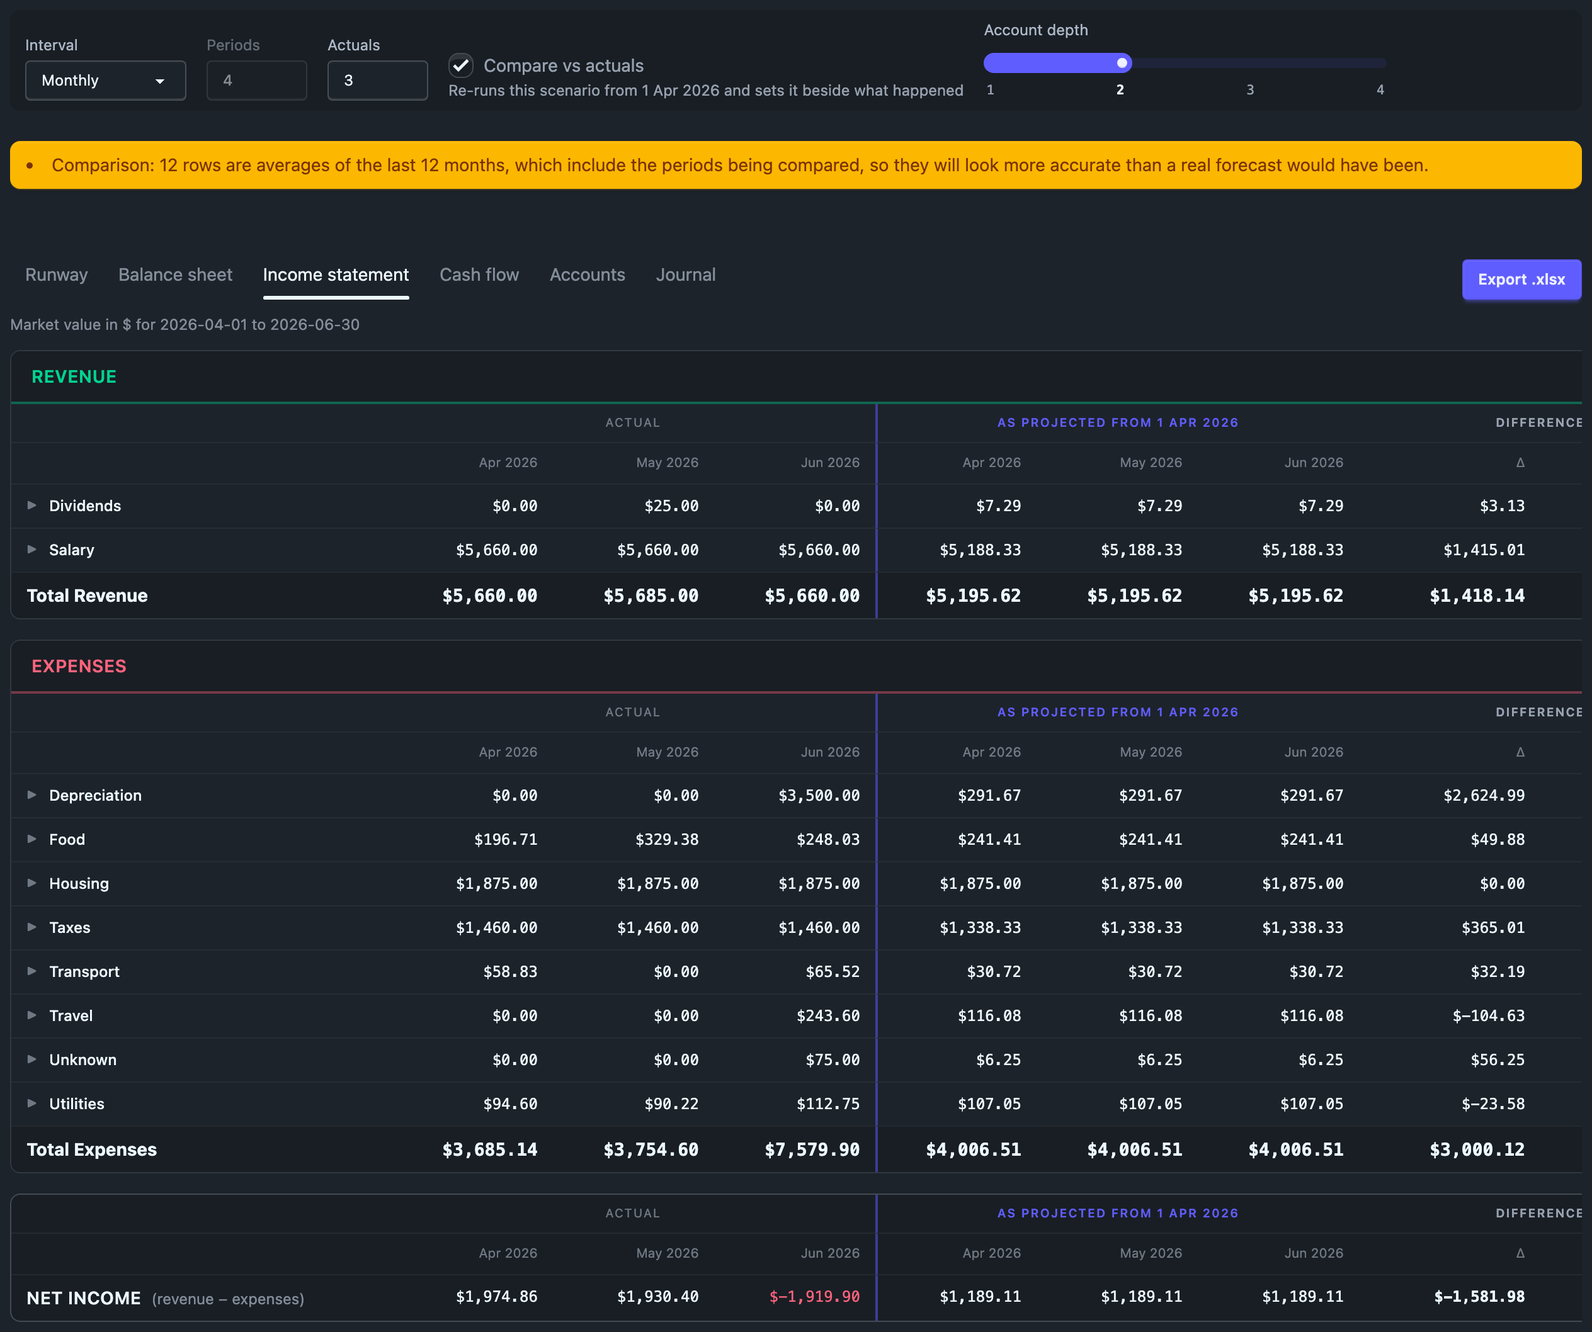
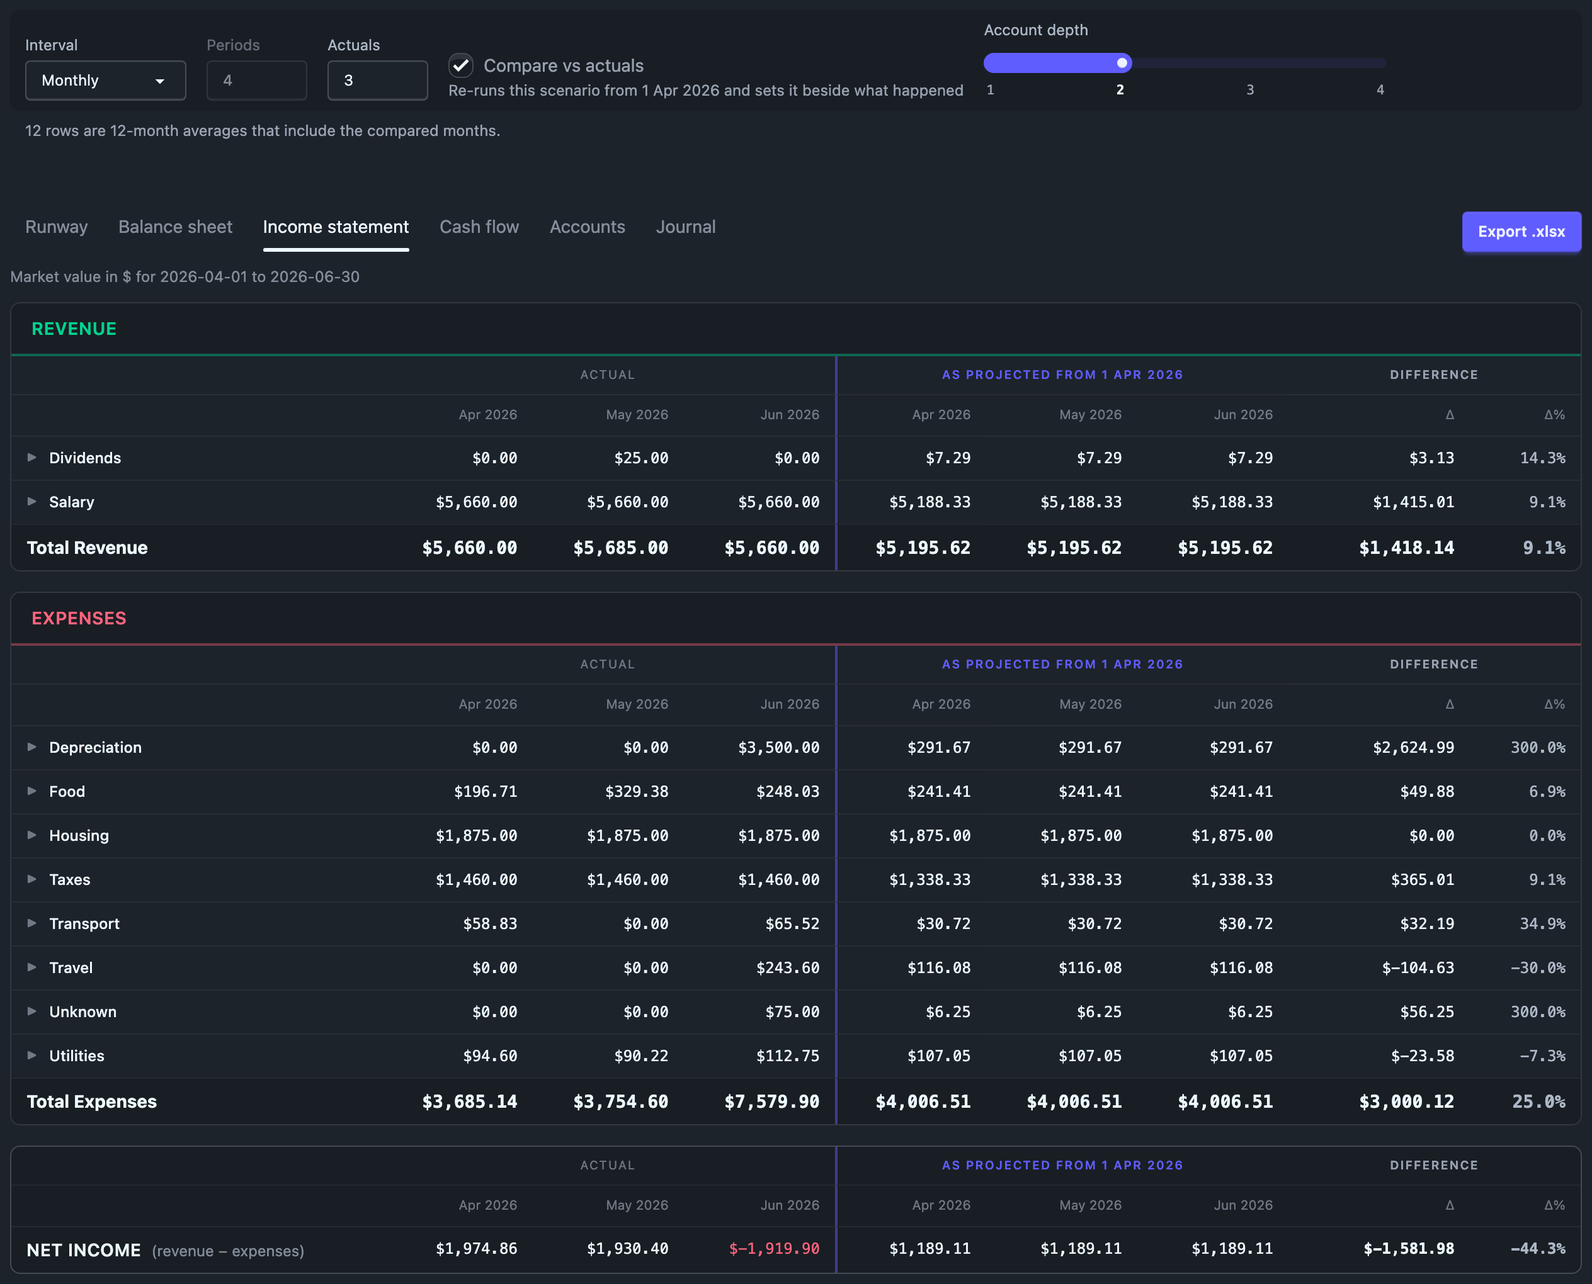
feat(projections): fit comparisons on the page, flag wide ones, soften the seed note
- Compare mode uses a tighter column template (label 15rem, periods
  7.5rem, Δ 9rem, Δ% 5.5rem), so three actual periods (74.5rem) fit the
  1280px page instead of pushing Δ% out of view.
- New HScroll wraps every statement's sideways scroller: while there is
  more to one side it fades that edge and shows a chevron that scrolls
  it. macOS hides scrollbars, so a wide statement looked cut off.
- The seeded-averages line leaves the warnings alert and becomes a grey
  note ("12 rows are 12-month averages that include the compared
  months."): a fact about how the rows were made, not a problem.

diff --git a/web/src/lib/components/HScroll.svelte b/web/src/lib/components/HScroll.svelte
@@ -1,0 +1,95 @@
+<!-- A sideways scroller that SAYS it scrolls.
+
+     macOS hides scrollbars until a scroll starts, so a statement wider than
+     the page looked cut off: the last columns (a comparison's Δ and Δ%) were
+     simply not there, with nothing to say they were one swipe away. While
+     there is more to either side this draws a fade over that edge and a
+     chevron button that scrolls a page-width that way; both go when the edge
+     is reached. Nothing is drawn when the content fits.
+
+     `enabled: false` renders the children inside `display: contents`
+     wrappers, so a caller whose single-column mode needs its children to stay
+     direct flex children (Total mode) gets exactly that. -->
+<script lang="ts">
+    import type {Snippet} from "svelte";
+
+    let {
+        enabled = true,
+        class: className = "",
+        testid,
+        children,
+    }: {
+        enabled?: boolean;
+        /** Classes for the scrolling element itself (e.g. `@container`). */
+        class?: string;
+        /** The scrolling element's `data-testid`. */
+        testid?: string;
+        children: Snippet;
+    } = $props();
+
+    let scroller: HTMLDivElement | undefined = $state();
+    let moreLeft = $state(false);
+    let moreRight = $state(false);
+
+    /** Within a pixel counts as the edge: zoom leaves fractional scroll offsets. */
+    const SLACK = 1;
+
+    function measure(): void {
+        if (scroller === undefined) return;
+        const {scrollLeft, scrollWidth, clientWidth} = scroller;
+        moreLeft = scrollLeft > SLACK;
+        moreRight = scrollLeft + clientWidth < scrollWidth - SLACK;
+    }
+
+    $effect(() => {
+        if (!enabled || scroller === undefined) return;
+        const el = scroller;
+        measure();
+        // jsdom (component tests) has no ResizeObserver; the first measure stands.
+        if (typeof ResizeObserver === "undefined") return;
+        // The content's width changes with the data (a re-run, a new column
+        // count) as well as with the window, so both are watched.
+        const observer = new ResizeObserver(measure);
+        observer.observe(el);
+        if (el.firstElementChild !== null) observer.observe(el.firstElementChild);
+        return () => observer.disconnect();
+    });
+
+    function nudge(direction: 1 | -1): void {
+        scroller?.scrollBy({left: direction * scroller.clientWidth * 0.8, behavior: "smooth"});
+    }
+</script>
+
+{#if enabled}
+    <div class="relative" data-more-left={moreLeft} data-more-right={moreRight}>
+        <div bind:this={scroller} class="{className} overflow-x-auto" data-testid={testid} onscroll={measure}>
+            {@render children()}
+        </div>
+        {#if moreLeft}
+            <div class="pointer-events-none absolute inset-y-0 left-0 w-10 bg-linear-to-r from-base-100 to-transparent" aria-hidden="true"></div>
+            <button
+                type="button"
+                class="btn absolute top-2 left-1 btn-circle shadow-md btn-xs"
+                aria-label="Scroll left"
+                title="More columns to the left"
+                data-testid={testid === undefined ? undefined : `${testid}-left`}
+                onclick={() => nudge(-1)}>‹</button
+            >
+        {/if}
+        {#if moreRight}
+            <div class="pointer-events-none absolute inset-y-0 right-0 w-10 bg-linear-to-l from-base-100 to-transparent" aria-hidden="true"></div>
+            <button
+                type="button"
+                class="btn absolute top-2 right-1 btn-circle shadow-md btn-xs"
+                aria-label="Scroll right"
+                title="More columns to the right"
+                data-testid={testid === undefined ? undefined : `${testid}-right`}
+                onclick={() => nudge(1)}>›</button
+            >
+        {/if}
+    </div>
+{:else}
+    <div class="contents" data-testid={testid}>
+        {@render children()}
+    </div>
+{/if}

diff --git a/web/src/lib/projections/compareView.test.ts b/web/src/lib/projections/compareView.test.ts
@@ -1,7 +1,7 @@
 import {describe, expect, it} from "vitest";
 import {dec} from "#lib/domain/money.js";
 import {compareFixture, usd} from "#lib/testing/projectionFixture.js";
-import {comparisonWarnings, compareRunwayStatement, dayLabel, untouchedSeedLines} from "./compareView";
+import {comparisonWarnings, compareRunwayStatement, dayLabel, seedNote, untouchedSeedLines} from "./compareView";
 import {blankLine, emptyScenario, withQuantity} from "./scenarioModel";
 import type {Scenario} from "./types";
 
@@ -45,12 +45,14 @@ describe("UNIT projections/compareView", () => {
         };
         const scenario: Scenario = {...emptyScenario(), lines: [seeded]};
         expect(untouchedSeedLines(scenario)).toBe(1);
-        const warnings = comparisonWarnings(compareFixture({warnings: ["valued in EUR"]}), scenario);
-        expect(warnings[0]).toBe("Comparison: valued in EUR");
-        expect(warnings[1]).toMatch(/^Comparison: 1 row is an average of the last 12 months, which include the periods being compared/);
+        // The engine's lines are warnings; the seed count is a separate grey note.
+        expect(comparisonWarnings(compareFixture({warnings: ["valued in EUR"]}))).toEqual(["Comparison: valued in EUR"]);
+        expect(seedNote(scenario)).toBe("1 row is a 12-month average that includes the compared months.");
+        expect(seedNote({...scenario, lines: [seeded, {...seeded, group: "rule:1"}]})).toBe("2 rows are 12-month averages that include the compared months.");
         // Edited: no longer an untouched average.
         const edited = {...withQuantity(seeded, dec(60000, 2)), served: dec(50000, 2)};
         expect(untouchedSeedLines({...scenario, lines: [edited]})).toBe(0);
-        expect(comparisonWarnings(compareFixture(), emptyScenario())).toEqual([]);
+        expect(seedNote({...scenario, lines: [edited]})).toBeNull();
+        expect(comparisonWarnings(compareFixture())).toEqual([]);
     });
 });

diff --git a/web/src/lib/projections/compareView.ts b/web/src/lib/projections/compareView.ts
@@ -64,18 +64,24 @@ export function untouchedSeedLines(scenario: Scenario): number {
 /**
  * The comparison's lines for the page's warnings alert, each prefixed
  * "Comparison: ": the engine's (the as-projected run's own, and a valuation
- * target that changed inside the window), then the seed lookahead line (D7),
- * which only the page can see. Only a warning: the scenario is never re-seeded.
+ * target that changed inside the window). The seed note is not one of them —
+ * see `seedNote`.
  */
-export function comparisonWarnings(compare: Comparison, scenario: Scenario): string[] {
+export function comparisonWarnings(compare: Comparison): string[] {
+    return compare.warnings.map((warning) => `Comparison: ${warning}`);
+}
+
+/**
+ * A neutral note, shown in grey beside the comparison rather than in the
+ * warnings alert (Patrick, 2026-11-09): how many rows are still the seed's
+ * 12-month averages, which include the compared months (D7). It states a
+ * fact about how those rows were made; it is not a problem to fix, and the
+ * scenario is never re-seeded or adjusted. Null when there are none.
+ */
+export function seedNote(scenario: Scenario): string | null {
     const seeded = untouchedSeedLines(scenario);
-    const lookahead =
-        seeded === 0
-            ? []
-            : [
-                  `${seeded} ${seeded === 1 ? "row is an average" : "rows are averages"} of the last 12 months, which include the periods being compared, so ${
-                      seeded === 1 ? "it" : "they"
-                  } will look more accurate than a real forecast would have been.`,
-              ];
-    return [...compare.warnings, ...lookahead].map((warning) => `Comparison: ${warning}`);
+    if (seeded === 0) return null;
+    return seeded === 1
+        ? "1 row is a 12-month average that includes the compared months."
+        : `${seeded} rows are 12-month averages that include the compared months.`;
 }

diff --git a/web/src/routes/projections/+page.svelte b/web/src/routes/projections/+page.svelte
@@ -46,7 +46,7 @@
     import {defaultProjectionParams, projectionParamsToSearch, searchToProjectionParams, type ProjectionParams} from "#lib/projections/params.js";
     // MERGE SEAM: plan 34 (Compare vs actuals).
     import {compareActive} from "#lib/projections/params.js";
-    import {comparisonWarnings, dayLabel} from "#lib/projections/compareView.js";
+    import {comparisonWarnings, dayLabel, seedNote} from "#lib/projections/compareView.js";
     import {assetRowsByGroup} from "#lib/projections/projectionView.js";
     import {sameProjectionQuery, scenarioStore, scenarioTableView, type ProjectionWindow} from "#lib/projections/scenarioStore.svelte.js";
     import ProjectionReports from "#lib/projections/ui/ProjectionReports.svelte";
@@ -390,10 +390,9 @@
     });
 
     // MERGE SEAM: plan 34 appends the comparison's lines, prefixed "Comparison:".
-    const warnings = $derived([
-        ...(current?.warnings ?? []),
-        ...(comparing && current?.compare != null ? comparisonWarnings(current.compare, scenarioStore.scenario) : []),
-    ]);
+    const warnings = $derived([...(current?.warnings ?? []), ...(comparing && current?.compare != null ? comparisonWarnings(current.compare) : [])]);
+    /** The grey seed note under the controls while comparing; null otherwise. */
+    const compareNote = $derived(comparing && current?.compare != null ? seedNote(scenarioStore.scenario) : null);
 
     /**
      * The journal's own balance per asset row, for the table's Balance column.
@@ -616,6 +615,10 @@
             </div>
         {/if}
     </div>
+
+    {#if compareNote !== null}
+        <p class="-mt-4 px-3 text-xs text-base-content/60" data-testid="projection-compare-note">{compareNote}</p>
+    {/if}
 
     {#if warnings.length > 0}
         <!-- Never silent: a line the projection could not enumerate says so here

diff --git a/web/e2e/projections.e2e.ts b/web/e2e/projections.e2e.ts
@@ -671,3 +671,22 @@ test("projections: Compare vs actuals sets the actual periods beside the project
     await expect(page.getByTestId("projection-is").getByTestId("projected-label").first()).toContainText("As projected from");
     await expect(page.getByTestId("projection-is").locator("thead").first().locator("tr:not([data-testid]) th")).toHaveCount(1 + 4 + 2);
 });
+
+test("projections: a comparison too wide for the page says it scrolls, and the chevron scrolls it", async ({page}) => {
+    // Three actual months fit the 1280px page on the comparison's tighter
+    // template: nothing to scroll, so no indicator.
+    await page.goto("/projections?tab=is&lookback=3&compare=1");
+    await expect(page.getByTestId("projection-is").getByTestId("projected-label").first()).toBeVisible();
+    await expect(page.getByTestId("is-scroller-right")).toHaveCount(0);
+
+    // Six do not: the right edge fades and offers a chevron, which scrolls
+    // the statement (not the page) and brings up the left one.
+    await page.goto("/projections?tab=is&lookback=6&compare=1");
+    await expect(page.getByTestId("projection-is").getByTestId("projected-label").first()).toBeVisible();
+    const right = page.getByTestId("is-scroller-right");
+    await expect(right).toBeVisible();
+    await expect(page.getByTestId("is-scroller-left")).toHaveCount(0);
+    await right.click();
+    await expect(page.getByTestId("is-scroller-left")).toBeVisible();
+    expect(await page.evaluate(() => document.documentElement.scrollWidth <= document.documentElement.clientWidth)).toBe(true);
+});

diff --git a/web/src/lib/reports/ui/BalanceSheetView.svelte b/web/src/lib/reports/ui/BalanceSheetView.svelte
@@ -56,6 +56,7 @@
      compares the last period); the tie-out row's stay blank, since it repeats
      Total Assets to carry the per-column verdict. -->
 <script lang="ts">
+    import HScroll from "#lib/components/HScroll.svelte";
     import type {MixedAmount} from "#lib/domain/money.js";
     import type {AmountStyle} from "#lib/domain/types.js";
     import {openJournal} from "#lib/journal/openJournal.js";
@@ -314,7 +315,7 @@
 
     <!-- Multi-column: one sideways scroller, one width, so every block keeps the
          same column edges. Single-date: `contents`, exactly as before. -->
-    <div class={multi ? "overflow-x-auto" : "contents"} data-testid="bs-scroller">
+    <HScroll enabled={multi} testid="bs-scroller">
         <div class={multi ? "flex flex-col gap-4" : "contents"} style:min-width={multi ? statementMinWidth(sheet.columns.length, false, comparing) : undefined}>
             {#each sheet.sections as section, at (section.kind)}
                 <section class="overflow-hidden rounded-box border border-base-content/10" data-testid="bs-section-{section.kind}">
@@ -486,7 +487,7 @@
                 </table>
             </div>
         </div>
-    </div>
+    </HScroll>
 
     {#if !allBalanced}
         <div class="alert rounded-box px-3 py-2 text-sm alert-warning" role="alert" data-testid="bs-check">

diff --git a/web/src/lib/reports/ui/statementGrid.ts b/web/src/lib/reports/ui/statementGrid.ts
@@ -26,5 +26,20 @@ export const TOTAL_REM = 9;
  * width, so with fixed layout and the same colgroup their columns coincide.
  */
 export function statementMinWidth(periods: number, total: boolean, compare = false): string {
-    return `${LABEL_REM + periods * PERIOD_REM + (total ? TOTAL_REM : 0) + (compare ? 2 * TOTAL_REM : 0)}rem`;
+    if (compare) return `${COMPARE_LABEL_REM + periods * COMPARE_PERIOD_REM + (total ? TOTAL_REM : 0) + DELTA_REM + DELTA_PCT_REM}rem`;
+    return `${LABEL_REM + periods * PERIOD_REM + (total ? TOTAL_REM : 0)}rem`;
 }
+
+// A projection comparison (plan 34) draws every period twice plus Δ and Δ%,
+// so it runs on a tighter template: at the usual one, three actual months
+// came to 85rem and pushed Δ% past the 1280px page. On this one they come to
+// 74.5rem and fit; wider windows still scroll (see `HScroll.svelte`).
+
+/** The line-name column's floor while comparing. Long names truncate, as they do at the usual width. */
+export const COMPARE_LABEL_REM = 15;
+/** One period column while comparing: still clears a bold six-figure total. */
+export const COMPARE_PERIOD_REM = 7.5;
+/** The Δ column: an amount, like a Total. */
+export const DELTA_REM = TOTAL_REM;
+/** The Δ% column: at most `>999%` or `-100.0%`. */
+export const DELTA_PCT_REM = 5.5;

diff --git a/web/src/lib/reports/ui/CashFlowStatementView.svelte b/web/src/lib/reports/ui/CashFlowStatementView.svelte
@@ -20,6 +20,7 @@
      section lines start closed. Keyboard: j/k walk every visible row, Enter opens
      a line or shows an account's postings for the report's dates. -->
 <script lang="ts">
+    import HScroll from "#lib/components/HScroll.svelte";
     import type {MixedAmount} from "#lib/domain/money.js";
     import type {AmountStyle} from "#lib/domain/types.js";
     import {openJournal} from "#lib/journal/openJournal.js";
@@ -234,7 +235,7 @@
 
     <!-- Interval mode: one sideways scroller, one width, so every block keeps
          the same column edges. Total mode: `contents`, exactly as before. -->
-    <div class={grid ? "overflow-x-auto" : "contents"} data-testid="cf-scroller">
+    <HScroll enabled={grid} testid="cf-scroller">
         <div
             class={grid ? "flex flex-col gap-4" : "contents"}
             style:min-width={buckets !== null ? statementMinWidth(buckets.length, !versus, versus) : undefined}
@@ -296,7 +297,7 @@
                 </section>
             {/each}
         </div>
-    </div>
+    </HScroll>
 
     <!-- A footnote, not a warning: it is almost always a posting date putting
          one side of a transaction in the next period, the Total column still

diff --git a/web/src/lib/reports/ui/IncomeStatementView.svelte b/web/src/lib/reports/ui/IncomeStatementView.svelte
@@ -37,6 +37,7 @@
      something on first load rather than nothing — and Enter either opens the
      disclosure (on a group) or drills into the journal (on an account). -->
 <script lang="ts">
+    import HScroll from "#lib/components/HScroll.svelte";
     import type {AmountStyle} from "#lib/domain/types.js";
     import {openJournal} from "#lib/journal/openJournal.js";
     import {registerKeys} from "#lib/keys/keymap.svelte.js";
@@ -313,7 +314,7 @@
          width, so every block keeps the same column edges and they all scroll
          together. Total mode: both wrappers are `contents`, so the boxes stay
          direct flex children and the page is exactly as it was. -->
-    <div class={grid ? "@container overflow-x-auto" : "contents"} data-testid="is-scroller">
+    <HScroll enabled={grid} class="@container" testid="is-scroller">
         <div
             class={grid ? "flex flex-col gap-4" : "contents"}
             style:min-width={buckets !== null ? statementMinWidth(buckets.length, !versus, versus) : undefined}
@@ -506,5 +507,5 @@
                 </div>
             {/if}
         </div>
-    </div>
+    </HScroll>
 </div>

diff --git a/web/src/lib/reports/ui/FigureColgroup.svelte b/web/src/lib/reports/ui/FigureColgroup.svelte
@@ -3,7 +3,7 @@
      period, and an optional Total. Every table in the stack renders this same
      colgroup under `table-fixed`, which is what makes their columns line up. -->
 <script lang="ts">
-    import {PERIOD_REM, TOTAL_REM} from "./statementGrid";
+    import {COMPARE_PERIOD_REM, DELTA_PCT_REM, DELTA_REM, PERIOD_REM, TOTAL_REM} from "./statementGrid";
 
     /** `compare`: the Δ and Δ% columns of a projection comparison (plan 34), in place of a Total. */
     let {periods, total, compare = false}: {periods: number; total: boolean; compare?: boolean} = $props();
@@ -12,13 +12,13 @@
 <colgroup>
     <col />
     {#each {length: periods}, i (i)}
-        <col style="width: {PERIOD_REM}rem" />
+        <col style="width: {compare ? COMPARE_PERIOD_REM : PERIOD_REM}rem" />
     {/each}
     {#if total}
         <col style="width: {TOTAL_REM}rem" />
     {/if}
     {#if compare}
-        <col style="width: {TOTAL_REM}rem" />
-        <col style="width: {TOTAL_REM}rem" />
+        <col style="width: {DELTA_REM}rem" />
+        <col style="width: {DELTA_PCT_REM}rem" />
     {/if}
 </colgroup>

diff --git a/web/src/lib/reports/ui/AccountReportView.svelte b/web/src/lib/reports/ui/AccountReportView.svelte
@@ -25,6 +25,7 @@
      Filtering to chosen accounts happens before the report gets here
      (`filterAccountReport`), so the export narrows with it. -->
 <script lang="ts">
+    import HScroll from "#lib/components/HScroll.svelte";
     import type {MixedAmount} from "#lib/domain/money.js";
     import type {AmountStyle} from "#lib/domain/types.js";
     import {formatTotals} from "#lib/journal/rowModel.js";
@@ -116,7 +117,7 @@
             </div>
         {/if}
     </div>
-    <div class="overflow-x-auto" data-testid="accounts-scroller">
+    <HScroll testid="accounts-scroller">
         <section
             class="overflow-hidden rounded-box border border-base-content/10"
             style:min-width={statementMinWidth(periods, !comparing, comparing)}
@@ -236,5 +237,5 @@
                 {/each}
             </table>
         </section>
-    </div>
+    </HScroll>
 </div>

diff --git a/docs/projections/compare.md b/docs/projections/compare.md
@@ -173,15 +173,18 @@ projection by $1,453.25.
 columns marked **(as projected)**, then **Δ** as money and **Δ %** as a number
 formatted as a percentage. The filename has `-compare` in it.
 
-## Warnings
+## Notes and warnings
+
+While comparing, a grey note under the controls counts the rows that are
+still the seed's 12-month averages, for example "12 rows are 12-month averages
+that include the compared months." That is a fact about how those rows were
+made, not a problem: those averages were computed from history that includes
+the periods being compared, so they had a head start a projection really made
+on F would not have had. The comparison still runs every row exactly as
+written; edit or replace those rows if you want a test without that head start.
 
 The page's warnings box adds lines that start with "Comparison:":
 
-- **Seeded averages.** Rows the seed filled in from your history are averages
-  of the last 12 months, and those months include the periods being compared.
-  They will look more accurate than a forecast made on F could have been. The
-  warning counts them; the comparison still runs them exactly as written.
-  Edit or replace them to get an honest test.
 - **A different valuation commodity.** If your base commodity first appears
   inside the window, the projection made on F would have valued in another
   one. The as-projected columns are shown in the actual columns' commodity,
